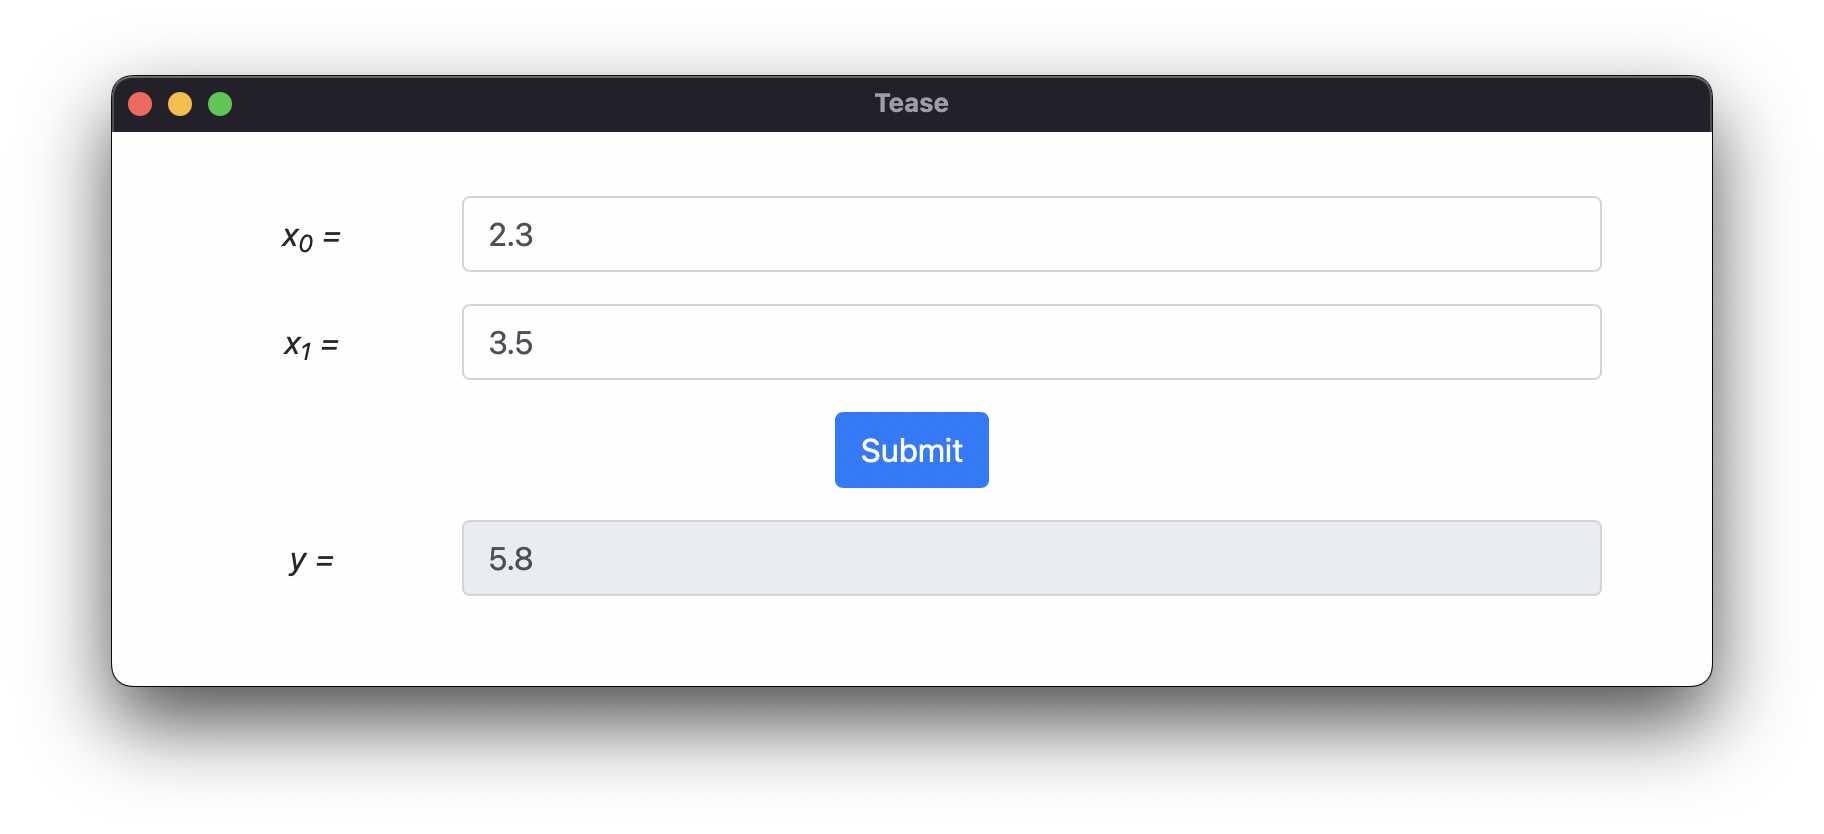
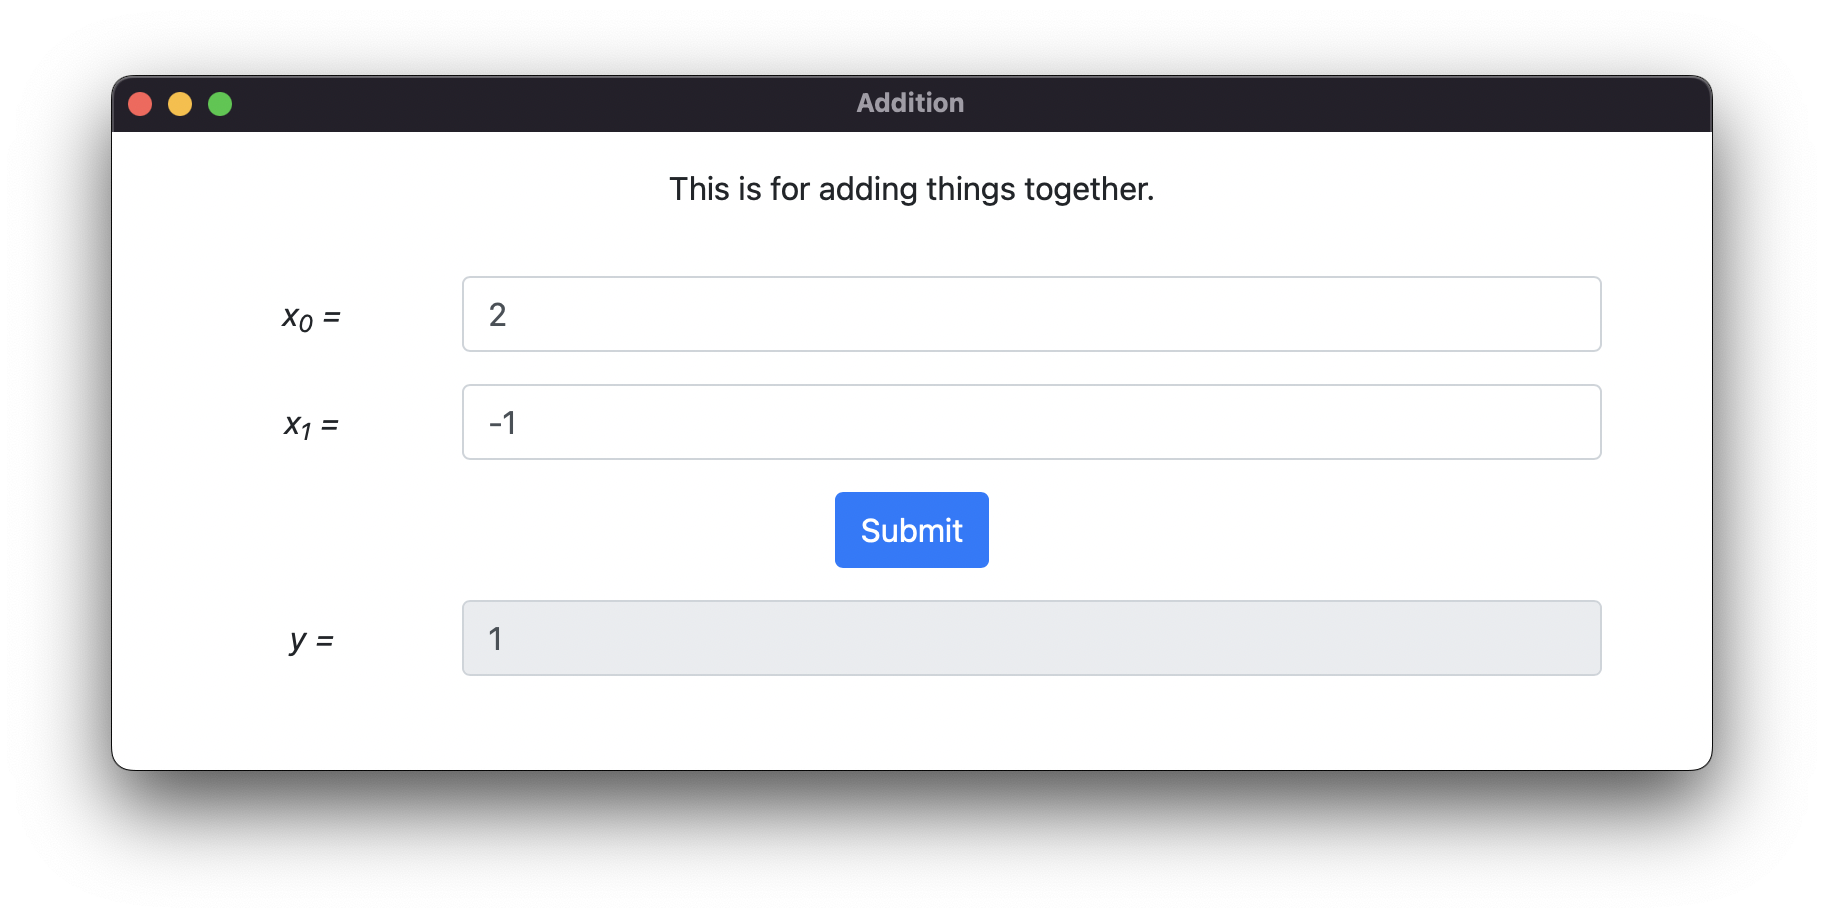
Lots of small things

diff --git a/src/lib.rs b/src/lib.rs
@@ -18,6 +18,7 @@ use wry::{
 mod html_chunks;
 use html_chunks::{add_dropdown, add_number, add_slider, add_text, beginning, end};
 
+#[derive(Clone)]
 pub enum Input {
     Number(f64),
     Text(String),
@@ -33,10 +34,37 @@ pub enum Input {
     },
 }
 
-pub struct Teaser {}
+pub struct Teaser {
+    title: String,
+    description: String,
+    inputs: Vec<Input>,
+}
+
+impl Default for Teaser {
+    fn default() -> Self {
+        Self {
+            title: "Demo".to_string(),
+            description: "".to_string(),
+            inputs: vec![],
+        }
+    }
+}
 
 impl Teaser {
-    pub fn run<F>(predictor: F, inputs: Vec<Input>)
+    pub fn with_title(mut self, title: String) -> Self {
+        self.title = title;
+        self
+    }
+    pub fn with_description(mut self, description: String) -> Self {
+        self.description = description;
+        self
+    }
+    pub fn with_inputs(mut self, inputs: Vec<Input>) -> Self {
+        self.inputs = inputs;
+        self
+    }
+
+    pub fn run<F>(self, predictor: F)
     where
         F: 'static + Fn(Vec<f64>) -> f64,
     {
@@ -44,8 +72,8 @@ impl Teaser {
             static WEBVIEW: RefCell<HashMap<usize, WebView>> = RefCell::new(HashMap::new());
         }
 
-        let mut html = beginning();
-        for (idx, input) in inputs.iter().enumerate() {
+        let mut html = beginning(self.description);
+        for (idx, input) in self.inputs.iter().enumerate() {
             html = format!(
                 "{} {}",
                 html,
@@ -69,7 +97,7 @@ impl Teaser {
 
         let event_loop = EventLoop::new();
         let window = WindowBuilder::new()
-            .with_title("Tease")
+            .with_title(self.title)
             .build(&event_loop)
             .unwrap();
 

diff --git a/src/html_chunks.rs b/src/html_chunks.rs
@@ -54,27 +54,28 @@ pub(crate) fn add_dropdown(
     output
 }
 
-pub(crate) fn beginning() -> String {
-    "<html lang=\"en\">
+pub(crate) fn beginning(description: String) -> String {
+    format!("<html lang=\"en\">
         <head>
             <meta charset=\"utf-8\">
             <meta name=\"viewport\" content=\"width=device-width, initial-scale=1, shrink-to-fit=no\">
             <link rel=\"stylesheet\" href=\"https://cdn.jsdelivr.net/npm/bootstrap@4.3.1/dist/css/bootstrap.min.css\" integrity=\"sha384-ggOyR0iXCbMQv3Xipma34MD+dH/1fQ784/j6cY/iJTQUOhcWr7x9JvoRxT2MZw1T\" crossorigin=\"anonymous\">
             <script type=\"text/javascript\">
-                function run_calculation() {
+                function run_calculation() {{
                     var numbers = [];
                     var classes = document.getElementsByClassName('input');
                     Array.from(classes).forEach((x, i) => numbers.push(Number(x.value)));
                     ipc.postMessage(numbers.toString());
-                }
+                }}
             </script>
         </head>
         <body>
             <div class=\"container\">
+                <p class=\"mt-3 text-center\">{description}</p>
                 <div class=\"row mt-3\">
                     <div class=\"col text-center\">
                         <form action=\"#\" method=\"POST\" onsubmit=\"run_calculation()\">
-                            <div class=\"form-group row\" id=\"input-group\">".to_string()
+                            <div class=\"form-group row\" id=\"input-group\">")
 }
 
 pub(crate) fn end() -> String {

diff --git a/examples/inputs.rs b/examples/inputs.rs
@@ -4,12 +4,10 @@ use tease::{Input, Teaser};
 
 fn main() {
     let model = train_linear_regression();
-    Teaser::run(
-        move |x| {
-            let xx = DenseMatrix::from_2d_vec(&vec![x; 1]);
-            model.predict(&xx).unwrap()[0]
-        },
-        vec![
+    Teaser::default()
+        .with_title("Linear Regression".to_string())
+        .with_description(format!("This demonstration runs a <a href=\"https://smartcorelib.org/\">Smartcore</a> model and shows the results in real time."))
+        .with_inputs(vec![
             Input::Number(234.289),
             Input::Number(235.6),
             Input::Dropdown {
@@ -24,8 +22,11 @@ fn main() {
                 initial_value: 1947.0,
             },
             Input::Number(60.323),
-        ],
-    );
+        ])
+        .run(move |x| {
+            let xx = DenseMatrix::from_2d_vec(&vec![x; 1]);
+            model.predict(&xx).unwrap()[0]
+        });
 }
 
 pub fn train_linear_regression() -> LinearRegression<f64, DenseMatrix<f64>> {

diff --git a/examples/addition.rs b/examples/addition.rs
@@ -1,9 +1,9 @@
-use smartcore::linalg::BaseMatrix;
 use tease::{Input, Teaser};
 
 fn main() {
-    Teaser::run(
-        move |x| x.iter().sum(),
-        vec![Input::Number(0.0), Input::Number(0.0)],
-    );
+    Teaser::default()
+        .with_title("Addition".to_string())
+        .with_description("This is for adding things together.".to_string())
+        .with_inputs(vec![Input::Number(0.0); 2])
+        .run(move |x| x.iter().sum());
 }

diff --git a/README.md b/README.md
@@ -1,18 +1,19 @@
-[![Github CI](https://github.com/cmccomb/rust-automl/actions/workflows/tests.yml/badge.svg)](https://github.com/cmccomb/automl/actions)
-[![Crates.io](https://img.shields.io/crates/v/automl.svg)](https://crates.io/crates/automl)
-[![docs.rs](https://img.shields.io/docsrs/automl/latest?logo=rust)](https://docs.rs/automl)
+[![Github CI](https://github.com/cmccomb/tease/actions/workflows/tests.yml/badge.svg)](https://github.com/cmccomb/tease/actions)
+[![Crates.io](https://img.shields.io/crates/v/tease.svg)](https://crates.io/crates/tease)
+[![docs.rs](https://img.shields.io/docsrs/tease/latest?logo=rust)](https://docs.rs/tease)
 
 # About _tease_
 This crate provides the ability to rapidly generate a GUI (a _teaser_) for a wide array of possible rust functions. It is intended to be used for prototyping machine learningn models. 
 
 # Usage
 Running this code will produce a GUI for adding two numbers together
-```rust
-use teaser::{Teaser, inputs}
-Teaser::run(
-    move |x| x.iter().sum(),
-    vec![Input::Number(0.0), Input::Number(0.0)],
-);
+```rust, no_run
+use tease::{Teaser, Input};
+Teaser::default()
+    .with_title("Addition".to_string())
+    .with_description("This is for adding things together.".to_string())
+    .with_inputs(vec![Input::Number(0.0); 2])
+    .run(move |x| x.iter().sum());
 ```
 And it will look something like this:
 ![](https://raw.githubusercontent.com/cmccomb/tease/master/assets/addition.png)
